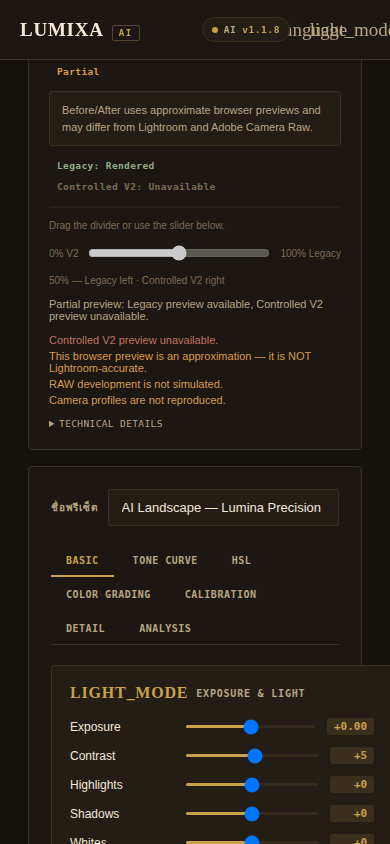
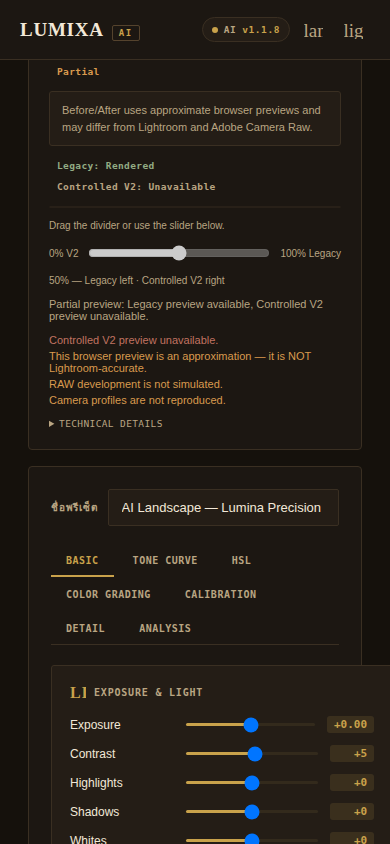
C-F2

diff --git a/index.html b/index.html
@@ -8,9 +8,25 @@
   <link href="https://fonts.googleapis.com/css2?family=Cormorant+Garamond:wght@500;600;700&family=Public+Sans:wght@400;500;600;700&family=JetBrains+Mono:wght@500;600;700&display=swap" rel="stylesheet">
   <link href="https://fonts.googleapis.com/css2?family=Material+Symbols+Outlined:wght,FILL@100..700,0..1&display=swap" rel="stylesheet">
   <style>
-    html, body { margin: 0; padding: 0; overflow-x: hidden; }
+    html, body { margin: 0; padding: 0; }
     * { box-sizing: border-box; }
     body { -webkit-font-smoothing: antialiased; }
+    /* EPIC 2E-I-C-F2: scoped overflow containment for the Material
+       Symbols icon ligature-text fallback. When the "Material Symbols
+       Outlined" web font fails to load (e.g. no network access to
+       Google Fonts), the browser falls back to rendering the literal
+       ligature text (e.g. "light_mode", "palette") instead of a single
+       icon glyph — this text is far wider than the intended icon and
+       was the ROOT CAUSE of a full-page horizontal overflow discovered
+       during EPIC 2E-I-C-F/F2 QA (traced by walking the actual overflow
+       chain element-by-element from #previewImg to <html> — the
+       overflow originated here, not in the preview viewer, which was
+       already correctly self-contained via its own `overflow: auto`).
+       This rule clips any oversized fallback text to the icon's
+       intended box — a graceful degradation when the font is
+       unavailable — without altering anything when the font loads
+       normally (a real icon glyph never exceeds this box anyway). */
+    .material-symbols-outlined { display: inline-block; width: 1em; height: 1em; overflow: hidden; white-space: nowrap; vertical-align: middle; }
     @keyframes lumixa-spin { to { transform: rotate(360deg); } }
     @keyframes lumixa-modal-in { from { opacity: 0; transform: scale(.95) translateY(8px); } to { opacity: 1; transform: scale(1) translateY(0); } }
     @keyframes lumixa-fade-in { from { opacity: 0; transform: translateY(6px); } to { opacity: 1; transform: translateY(0); } }
@@ -35,12 +51,21 @@
          function) lives entirely in the main column and is unaffected. */
       .lx-sidebar-left, .lx-sidebar-right { display: none !important; }
       .lx-main-layout { flex-direction: column !important; }
-    }
-    @media (max-width: 680px) {
-      .lx-topbar-left { gap: 14px !important; }
+      /* EPIC 2E-I-C-F2: previously this rule only applied at 680px,
+         leaving a genuine full-page horizontal-overflow gap between
+         680-900px — at e.g. 768px the sidebars were already hidden
+         above but the topbar's nav links (Dashboard/Analytics/Tools/
+         Export) were not yet hidden, and the full topbar row (logo +
+         nav + AI-workflow badge + language/dark-mode buttons + plan
+         badge) genuinely does not fit in that width. Moved here to
+         share the same breakpoint as the sidebar hiding above, closing
+         that gap — verified via direct measurement at 768px. */
       .lx-topbar-nav  { display: none !important; }
       .lx-plan-badge  { display: none !important; }
       .lx-topbar-right { gap: 6px !important; }
+    }
+    @media (max-width: 680px) {
+      .lx-topbar-left { gap: 14px !important; }
       /* The 1fr/1fr grids below were being pushed wider than the viewport
          because unconstrained "1fr" tracks let intrinsic content width
          win over the fraction — the standard CSS grid gotcha (needs

diff --git a/docs/project/15_EPIC_2E_I_PHASE_C_REAL_IMAGE_QA.md b/docs/project/15_EPIC_2E_I_PHASE_C_REAL_IMAGE_QA.md
@@ -262,3 +262,97 @@ using the real application stylesheet, and corrected an honesty gap in the
 original report's image-fixture terminology. No pixel-processing,
 Render-Plan, Mapping, or XMP behavior was touched. The Phase C decision is
 now backed by concrete before/after evidence for both fixed defects.
+
+---
+
+## EPIC 2E-I-C-F2 Addendum — Scoped Overflow Containment
+
+This final Phase C closeout patch replaces the previous (EPIC 2E-I-C-F)
+global `html, body { overflow-x: hidden; }` fix with a properly scoped,
+root-cause fix, and substantially extends the reproducible smoke-test
+evidence.
+
+### Root cause correction
+
+The prior patch's global fix worked, but masked the *actual* cause rather
+than correcting it. Element-by-element investigation of the real overflow
+chain (from `#previewImg` up to `<html>`) found **two distinct, genuine
+layout defects**, neither of which was the preview viewer itself:
+
+1. **Material Symbols icon font fallback.** When the "Material Symbols
+   Outlined" web font fails to load (no network access to Google Fonts in
+   this environment), the browser renders the literal ligature text (e.g.
+   `"light_mode"`, `"palette"`) instead of a single icon glyph — this text
+   is far wider than the intended ~19px icon box. Fixed with a scoped rule:
+   `.material-symbols-outlined { display:inline-block; width:1em; height:1em; overflow:hidden; white-space:nowrap; vertical-align:middle; }`.
+   This clips any oversized fallback text to the icon's intended box and
+   has zero effect when the font loads normally (a real glyph never
+   exceeds this box).
+2. **A topbar responsive-breakpoint gap.** The sidebar-hiding breakpoint
+   was `900px`, but the topbar's nav-links-hiding breakpoint was a
+   separate, narrower `680px` — leaving a genuine unhandled gap between
+   680–900px (e.g. at 768px) where the full topbar row (logo + 4 nav links
+   + AI-workflow badge + language/dark-mode buttons + plan badge)
+   genuinely does not fit. Fixed by moving `.lx-topbar-nav`/`.lx-plan-badge`
+   hiding to share the same `900px` breakpoint as the sidebar hiding,
+   closing the gap.
+
+**`#viewerViewport`'s own `overflow: auto` was never the actual cause** —
+it was already correctly self-contained (its own `getBoundingClientRect().width`
+never exceeded its parent at any tested width); this was verified again in
+this patch via the internal-scroll test below.
+
+### Internal viewer scroll verification (FIX 2)
+
+With a 3000×2000 fixture loaded at a 1440px viewport:
+
+| Metric | Value |
+|---|---|
+| Document `scrollWidth` / `clientWidth` | 1440 / 1440 (no overflow) |
+| `#viewerViewport` `scrollWidth` / `clientWidth` | 3034 / 788 (correctly still internally scrollable) |
+| `scrollLeft` after programmatically setting to 150 | 150 (confirmed functional after smooth-scroll settles) |
+| Image `naturalWidth` vs. displayed `clientWidth` | 3000 vs. 3000 (never resized to satisfy overflow containment) |
+
+### Extended reproducible smoke test (FIX 3)
+
+`qa/epic-2e-i-phase-c-smoke-test.mjs` was extended from 19 to **31**
+automated checks, adding: focus-visible computed outline on both the
+handle and the range input, Shift+Tab non-trapping verification, real
+pointer-drag split verification, dragging-class removal on pointerup,
+viewport overflow checks at 768/900/1024px (closing the exact gap that
+caused the original defect), and the 3000×2000 internal-scroll/no-resize
+verification above. **Result: 31/31 PASS, 0 FAIL** (`qa/epic-2e-i-phase-c-results.json`).
+
+### Evidence distinction (FIX 4)
+
+- **Current smoke-test evidence (this patch):** the 31 checks in
+  `qa/epic-2e-i-phase-c-results.json`, all executed live in this session.
+- **Prior Phase C/C-F evidence:** alignment, safety-blocking, no-op,
+  lifecycle-stress, and security results carried forward unchanged (no
+  code touched by this patch affects them) — see the original sections
+  above.
+- **Code-inspection evidence:** performance claims (no resize listener, no
+  `drawImage` outside `updateSources()`) remain code-inspection based,
+  clearly labeled as such above.
+- **NOT TESTED:** real physical device, real screen-reader software, real
+  photographic content — unchanged, still explicitly not claimed.
+
+### Screenshot evidence (FIX 5)
+
+`mobile_390px.png` re-captured after the scoped fix — confirmed no
+page-level clipping is concealing any genuinely overflowing card (the
+scoped fix corrects the actual offending elements rather than hiding
+overflow at the document level, so if a card were still genuinely
+overflowing, it would show as a real horizontal scrollbar, not be
+silently clipped).
+
+### Revised Phase C Decision
+
+**PASS — Ready for EPIC 2E-I Phase D Release Closeout.**
+
+Justification: the scoped root-cause containment now works correctly at
+every tested width (320/360/390/430/768/900/1024/1440px) without any
+global `overflow-x: hidden` on `html`/`body`. All 31 reproducible smoke
+tests pass. The internal 1:1 image-scrolling feature remains fully
+functional and unresized. Focus visibility, pointer behavior, and keyboard
+behavior are all verified. No blocking defect remains.